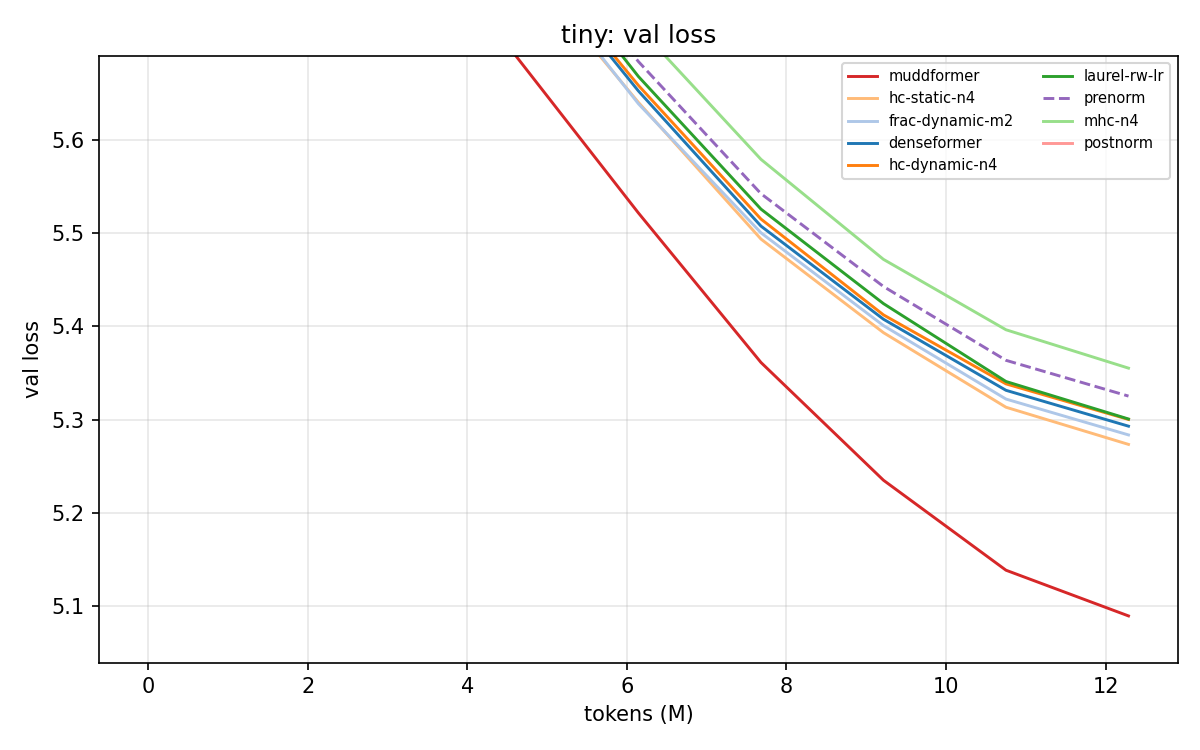
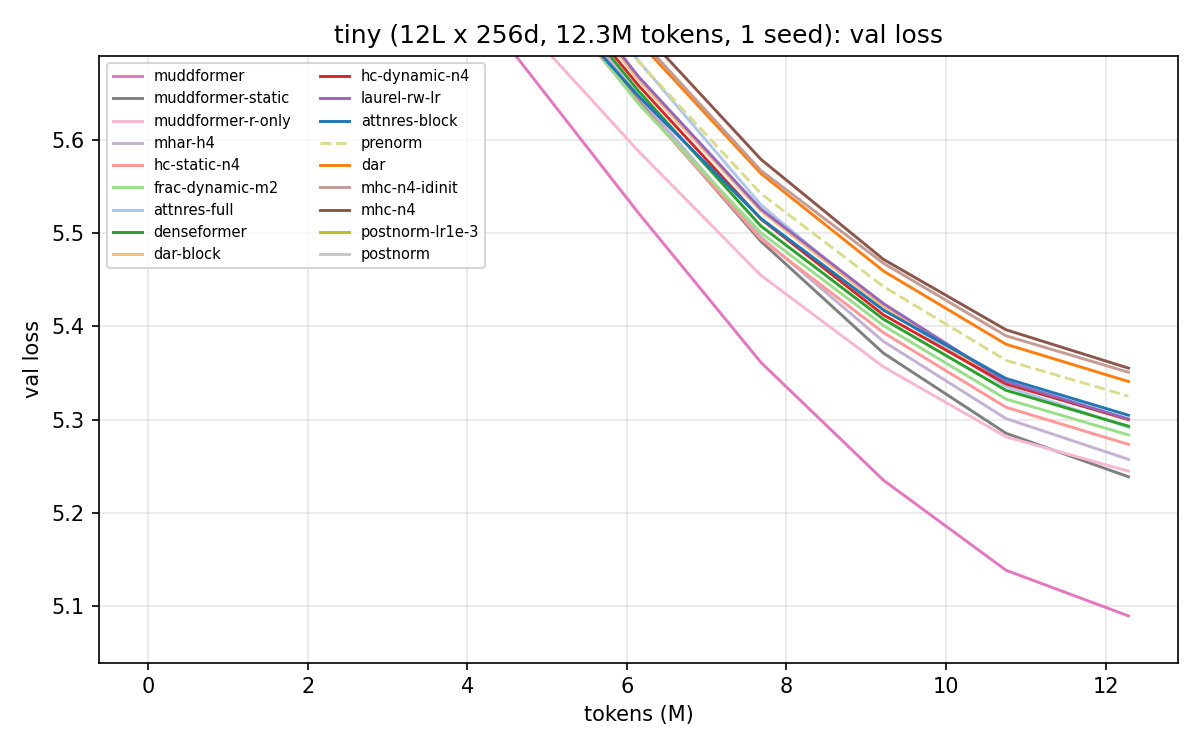
train: parse numeric CLI overrides before YAML (3e-4 was a string); interim tiny results incl. follow-ups

diff --git a/hcfactory/train.py b/hcfactory/train.py
@@ -43,6 +43,12 @@ DEFAULTS = dict(
 
 
 def parse_value(v: str):
+    # YAML 1.1 reads "3e-4" as a string, so try numbers first.
+    for cast in (int, float):
+        try:
+            return cast(v)
+        except ValueError:
+            pass
     try:
         return yaml.safe_load(v)
     except yaml.YAMLError:

diff --git a/results/tiny/results.md b/results/tiny/results.md
@@ -1,11 +1,20 @@
 | # | variant | val loss | Δ vs prenorm | params (non-emb) | +conn params | throughput (rel.) | 
 |---|---|---|---|---|---|---|
 | 1 | muddformer | 5.0896 | -0.2356 | 9.86M | 217.5K | 0.52× |
-| 2 | hc-static-n4 | 5.2734 | -0.0518 | 9.64M | 0.6K | 0.74× |
-| 3 | frac-dynamic-m2 | 5.2836 | -0.0416 | 9.66M | 21.8K | 0.86× |
-| 4 | denseformer | 5.2929 | -0.0322 | 9.64M | 0.1K | 0.71× |
-| 5 | hc-dynamic-n4 | 5.3001 | -0.0250 | 9.69M | 49.8K | 0.63× |
-| 6 | laurel-rw-lr | 5.3006 | -0.0245 | 9.84M | 196.7K | 0.75× |
-| 7 | prenorm | 5.3252 | +0.0000 | 9.64M | 0.0K | 1.00× |
-| 8 | mhc-n4 | 5.3551 | +0.0300 | 10.23M | 594.6K | 0.61× |
-| 9 | postnorm | 7.6768 | +2.3517 | 9.64M | 6.1K | 0.99× |
+| 2 | muddformer-static | 5.2387 | -0.0865 | 9.65M | 0.3K | 0.63× |
+| 3 | muddformer-r-only | 5.2447 | -0.0804 | 9.84M | 202.5K | 0.78× |
+| 4 | mhar-h4 | 5.2574 | -0.0678 | 9.65M | 12.8K | 0.57× |
+| 5 | hc-static-n4 | 5.2734 | -0.0518 | 9.64M | 0.6K | 0.74× |
+| 6 | frac-dynamic-m2 | 5.2836 | -0.0416 | 9.66M | 21.8K | 0.86× |
+| 7 | attnres-full | 5.2918 | -0.0334 | 9.65M | 12.8K | 0.52× |
+| 8 | denseformer | 5.2929 | -0.0322 | 9.64M | 0.1K | 0.71× |
+| 9 | dar-block | 5.2995 | -0.0257 | 9.65M | 12.3K | 0.75× |
+| 10 | hc-dynamic-n4 | 5.3001 | -0.0250 | 9.69M | 49.8K | 0.63× |
+| 11 | laurel-rw-lr | 5.3006 | -0.0245 | 9.84M | 196.7K | 0.75× |
+| 12 | attnres-block | 5.3046 | -0.0205 | 9.65M | 12.8K | 0.79× |
+| 13 | prenorm | 5.3252 | +0.0000 | 9.64M | 0.0K | 1.00× |
+| 14 | dar | 5.3408 | +0.0156 | 9.65M | 12.3K | 0.60× |
+| 15 | mhc-n4-idinit | 5.3507 | +0.0255 | 10.23M | 594.6K | 0.58× |
+| 16 | mhc-n4 | 5.3551 | +0.0300 | 10.23M | 594.6K | 0.61× |
+| 17 | postnorm-lr1e-3 | 7.6286 | +2.3035 | 9.64M | 6.1K | 0.93× |
+| 18 | postnorm | 7.6768 | +2.3517 | 9.64M | 6.1K | 0.99× |
